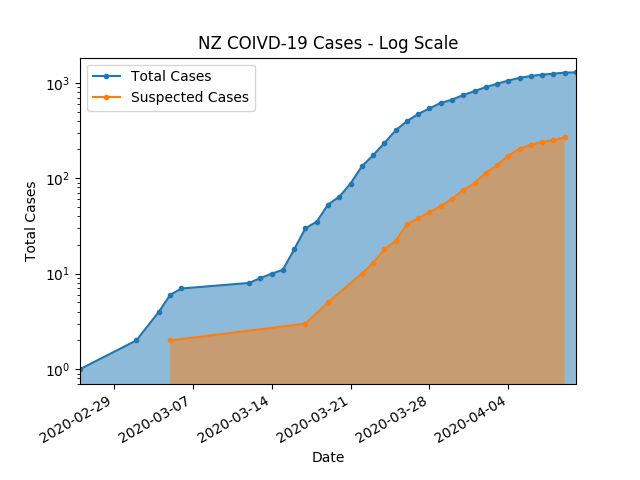
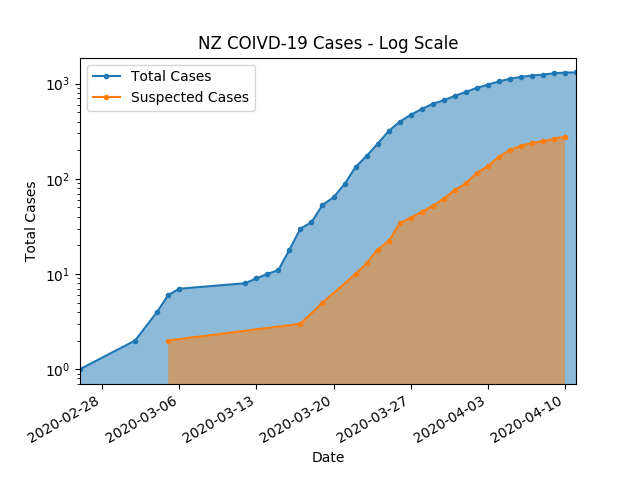
Data update

diff --git a/NZModel/nz_data.py b/NZModel/nz_data.py
@@ -33,7 +33,8 @@ header=3
 #filename = "./covid-casedetails-update-6april.xlsx"
 #filename = "covid-casedetails-8april2020.xlsx"
 #filename = "covid-casedetails-9april2020.xlsx"
-filename = "covid-casedetails-10april2020.xlsx"
+#filename = "covid-casedetails-10april2020.xlsx"
+filename = "case-list-11-april-2020-for-web.xlsx"
 
 # Confirmed Infection Cases
 data_conf = pd.read_excel(filename, header=header)
